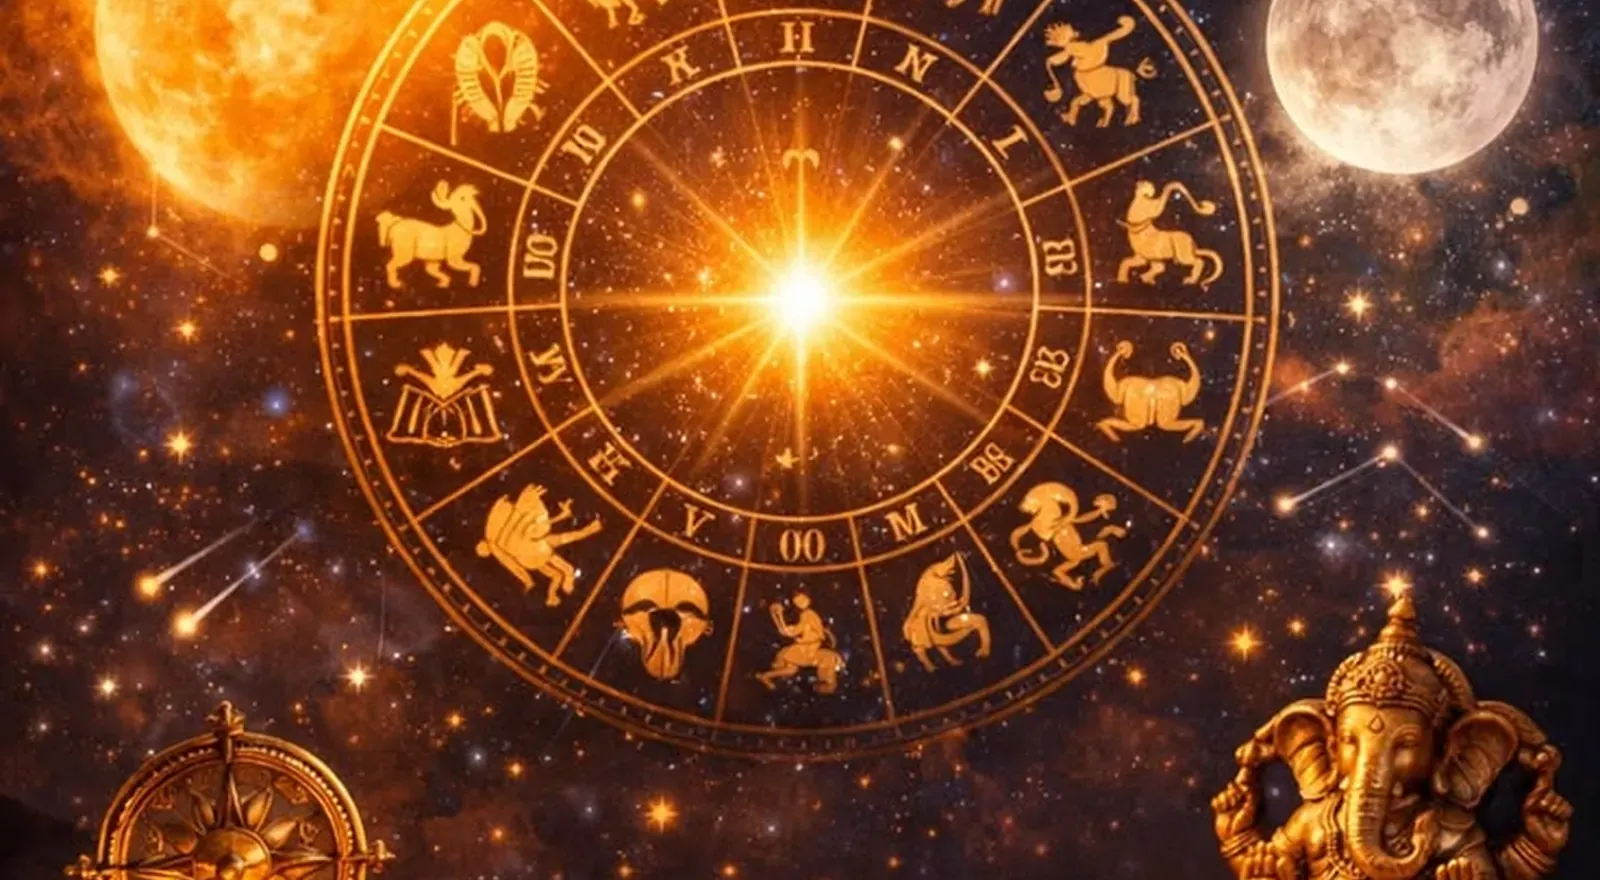
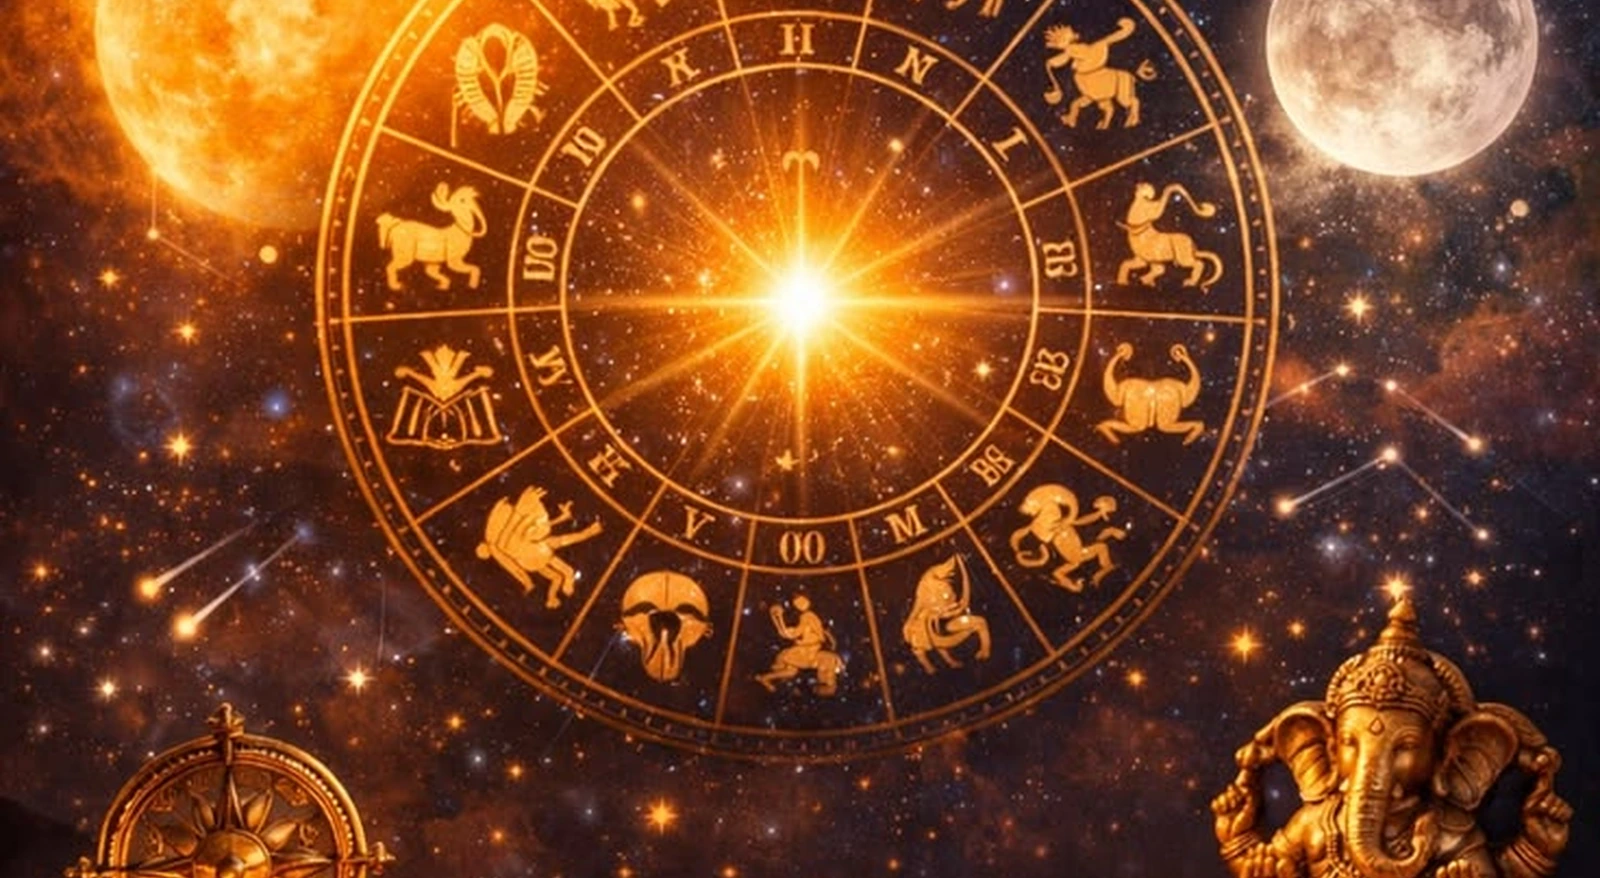
Boost image quality and visibility, saffron tint instead of dark dimming

diff --git a/src/components/Hero.jsx b/src/components/Hero.jsx
@@ -21,7 +21,7 @@ export default function Hero() {
         src={milkyway}
         alt=""
         aria-hidden="true"
-        className="absolute inset-0 h-full w-full object-cover opacity-45"
+        className="absolute inset-0 h-full w-full object-cover opacity-70"
       />
 
       {/* The wheel video, also full-bleed, screen-blended so its own dark
@@ -29,7 +29,7 @@ export default function Hero() {
           wheel and sparkle highlights actually show through */}
       <video
         ref={videoRef}
-        className="absolute inset-0 h-full w-full object-cover opacity-90"
+        className="absolute inset-0 h-full w-full object-cover"
         style={{ mixBlendMode: "screen" }}
         autoPlay
         loop
@@ -42,23 +42,33 @@ export default function Hero() {
         <source src={zodiacVideo} type="video/mp4" />
       </video>
 
-      {/* Bhagwa wash tying the photo + video together, and a dark vignette
-          so the headline stays legible over all of it */}
+      {/* Saffron/red tint over the photo — warms it toward bhagwa rather
+          than just dimming it, using multiply so the photo's own detail
+          and brightness still comes through */}
+      <div
+        className="pointer-events-none absolute inset-0"
+        style={{
+          background: "linear-gradient(160deg, rgba(242,129,29,0.45) 0%, rgba(196,30,46,0.35) 100%)",
+          mixBlendMode: "multiply",
+        }}
+      />
+
+      {/* Light vignette, only for text contrast — not a blanket dark wash */}
       <div
         className="pointer-events-none absolute inset-0"
         style={{
           background:
-            "radial-gradient(ellipse 120% 90% at 50% 45%, rgba(242,129,29,0.32) 0%, rgba(23,13,8,0.55) 55%, rgba(23,13,8,0.92) 100%), " +
-            "radial-gradient(ellipse 70% 60% at 50% 30%, rgba(196,30,46,0.22) 0%, rgba(23,13,8,0) 60%)",
+            "radial-gradient(ellipse 65% 55% at 50% 45%, rgba(23,13,8,0.55) 0%, rgba(23,13,8,0) 70%), " +
+            "linear-gradient(180deg, rgba(23,13,8,0.15) 0%, rgba(23,13,8,0.55) 100%)",
         }}
       />
 
       <div className="relative z-10 max-w-2xl">
         <p className="mb-4 text-sm text-saffronLight">Vedic astrology &amp; remedies</p>
-        <h1 className="font-display text-4xl leading-tight text-parchment md:text-6xl">
+        <h1 className="font-display text-4xl leading-tight text-parchment drop-shadow-[0_2px_12px_rgba(23,13,8,0.8)] md:text-6xl">
           Your chart already has the answer.
         </h1>
-        <p className="mx-auto mt-6 max-w-md text-parchment/70">
+        <p className="mx-auto mt-6 max-w-md text-parchment/90 drop-shadow-[0_1px_6px_rgba(23,13,8,0.8)]">
           Kundali readings, remedies, and gemstone guidance — grounded in your actual
           birth chart, not a horoscope column.
         </p>

diff --git a/src/components/Services.jsx b/src/components/Services.jsx
@@ -8,10 +8,17 @@ export default function Services({ onBook }) {
       {/* Faded altar-scene backdrop, built into the section rather than a
           separate banner — reinforces the tradition without competing with
           the card content on top of it */}
-      <img src={altarScene} alt="" aria-hidden="true" loading="lazy" className="absolute inset-0 h-full w-full object-cover opacity-[0.14]" />
+      <img src={altarScene} alt="" aria-hidden="true" loading="lazy" className="absolute inset-0 h-full w-full object-cover opacity-60" />
       <div
         className="pointer-events-none absolute inset-0"
-        style={{ background: "linear-gradient(180deg, rgba(23,13,8,0.4) 0%, rgba(23,13,8,0.92) 100%)" }}
+        style={{
+          background: "linear-gradient(160deg, rgba(242,129,29,0.4) 0%, rgba(196,30,46,0.3) 100%)",
+          mixBlendMode: "multiply",
+        }}
+      />
+      <div
+        className="pointer-events-none absolute inset-0"
+        style={{ background: "linear-gradient(180deg, rgba(23,13,8,0.25) 0%, rgba(23,13,8,0.85) 100%)" }}
       />
 
       <div className="relative mx-auto max-w-5xl">

diff --git a/src/components/Contact.jsx b/src/components/Contact.jsx
@@ -4,10 +4,17 @@ import moonPhases from "../assets/moon-phases.webp";
 export default function Contact() {
   return (
     <section id="contact" className="relative overflow-hidden px-6 py-24 text-center md:px-12">
-      <img src={moonPhases} alt="" aria-hidden="true" loading="lazy" className="absolute inset-0 h-full w-full object-cover opacity-20" />
+      <img src={moonPhases} alt="" aria-hidden="true" loading="lazy" className="absolute inset-0 h-full w-full object-cover opacity-50" />
       <div
         className="pointer-events-none absolute inset-0"
-        style={{ background: "linear-gradient(180deg, rgba(23,13,8,0.75) 0%, rgba(23,13,8,0.95) 100%)" }}
+        style={{
+          background: "linear-gradient(160deg, rgba(242,129,29,0.3) 0%, rgba(196,30,46,0.35) 100%)",
+          mixBlendMode: "multiply",
+        }}
+      />
+      <div
+        className="pointer-events-none absolute inset-0"
+        style={{ background: "linear-gradient(180deg, rgba(23,13,8,0.45) 0%, rgba(23,13,8,0.85) 100%)" }}
       />
 
       <div className="relative mx-auto max-w-md">

diff --git a/src/components/Reviews.jsx b/src/components/Reviews.jsx
@@ -49,10 +49,17 @@ export default function Reviews() {
 
   return (
     <section id="reviews" className="relative overflow-hidden bg-surface px-6 py-24 md:px-12">
-      <img src={tarotDesk} alt="" aria-hidden="true" loading="lazy" className="absolute inset-0 h-full w-full object-cover opacity-[0.13]" />
+      <img src={tarotDesk} alt="" aria-hidden="true" loading="lazy" className="absolute inset-0 h-full w-full object-cover opacity-55" />
       <div
         className="pointer-events-none absolute inset-0"
-        style={{ background: "linear-gradient(180deg, rgba(43,24,16,0.5) 0%, rgba(43,24,16,0.95) 100%)" }}
+        style={{
+          background: "linear-gradient(160deg, rgba(242,129,29,0.35) 0%, rgba(196,30,46,0.3) 100%)",
+          mixBlendMode: "multiply",
+        }}
+      />
+      <div
+        className="pointer-events-none absolute inset-0"
+        style={{ background: "linear-gradient(180deg, rgba(43,24,16,0.3) 0%, rgba(43,24,16,0.88) 100%)" }}
       />
 
       <div className="relative mx-auto max-w-3xl">
